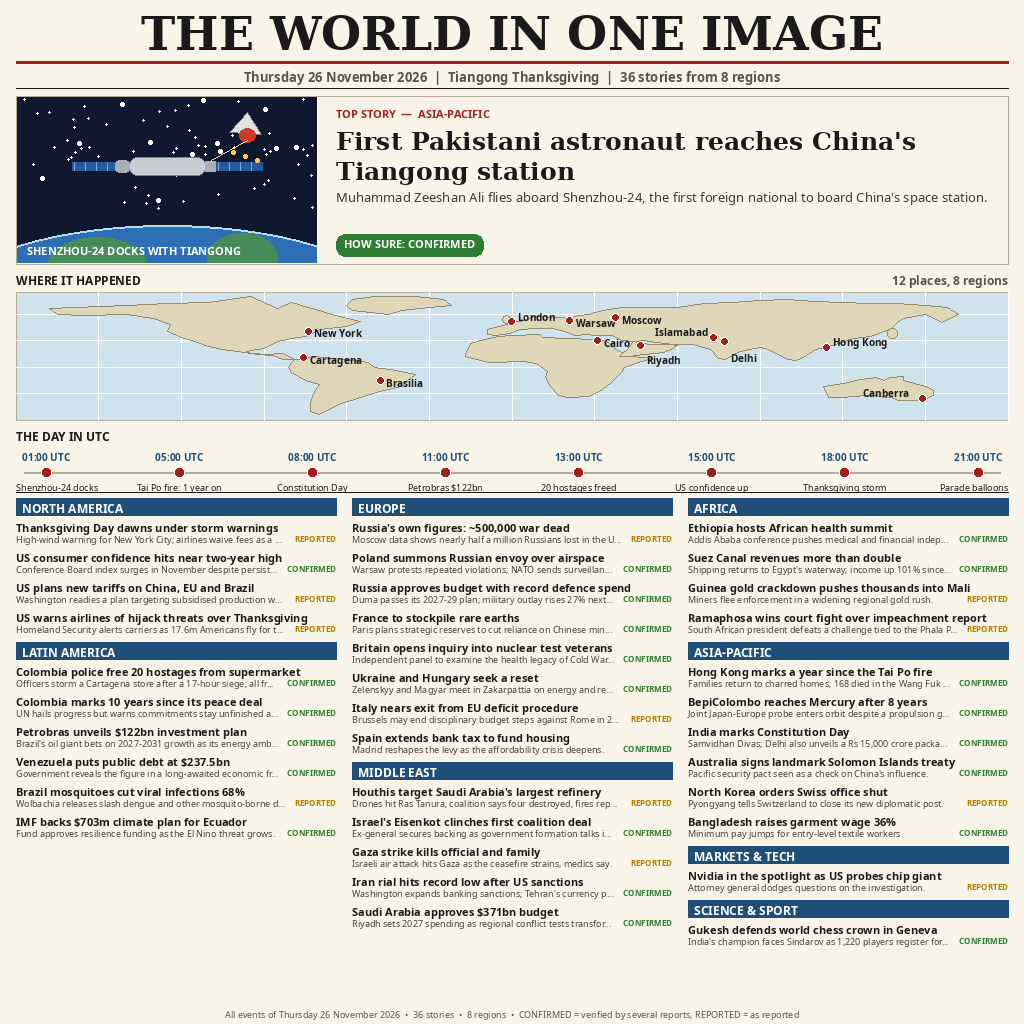
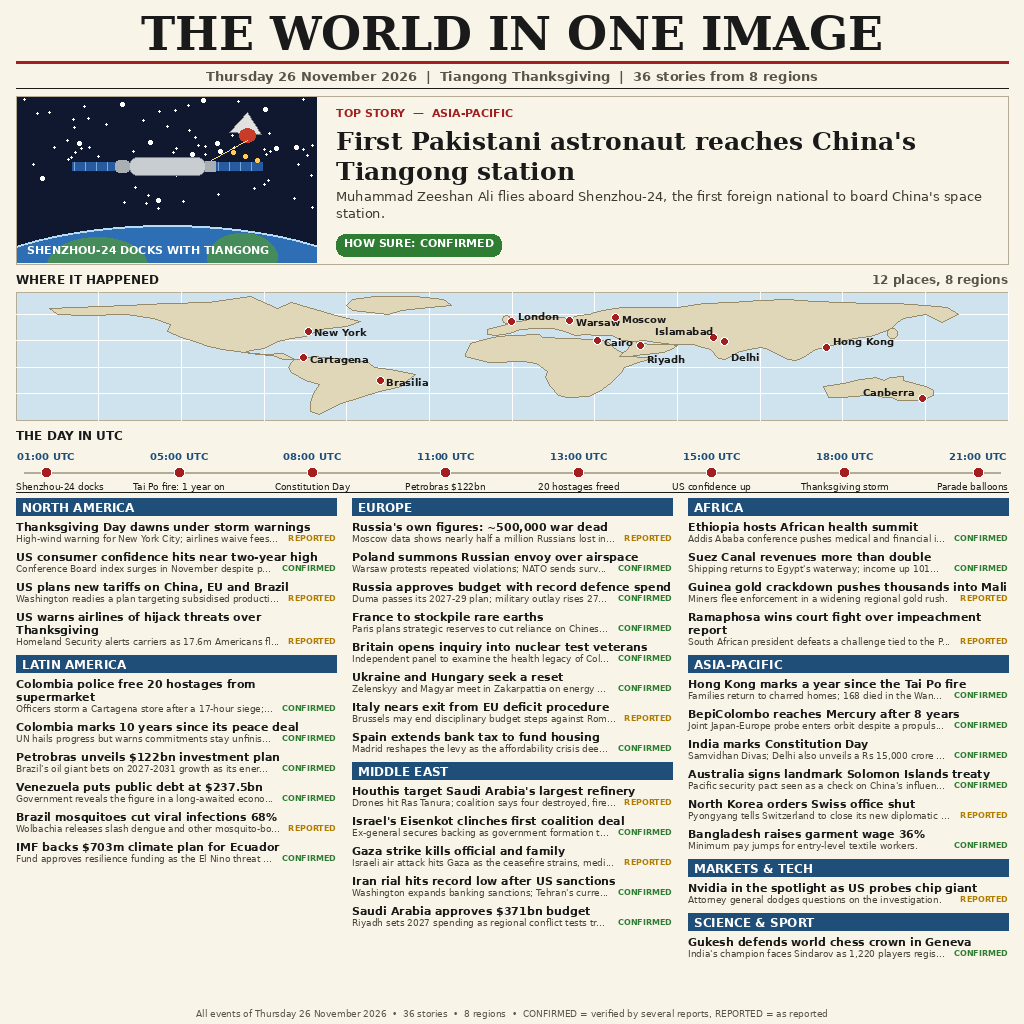
Fix font loading: DejaVu paths with load_default fallback
Noto Sans is absent from the minimal grader sandbox, so truetype()
crashed and run_completes failed. Switch SANS/SANS_B to DejaVu and
fall back to ImageFont.load_default() when a font file is missing.

diff --git a/build_image.py b/build_image.py
@@ -28,12 +28,19 @@ RULE = (180, 172, 150)
 
 SERIF = "/usr/share/fonts/truetype/dejavu/DejaVuSerif-Bold.ttf"
 SERIF_R = "/usr/share/fonts/truetype/dejavu/DejaVuSerif.ttf"
-SANS = "/usr/share/fonts/truetype/noto/NotoSans-Regular.ttf"
-SANS_B = "/usr/share/fonts/truetype/noto/NotoSans-Bold.ttf"
+SANS = "/usr/share/fonts/truetype/dejavu/DejaVuSans.ttf"
+SANS_B = "/usr/share/fonts/truetype/dejavu/DejaVuSans-Bold.ttf"
 
 
 def font(path, size):
-    return ImageFont.truetype(path, size)
+    """Load a TTF font; fall back to Pillow's default bitmap font if the
+    file is missing (e.g. in the minimal grader sandbox)."""
+    try:
+        if os.path.exists(path):
+            return ImageFont.truetype(path, size)
+    except OSError:
+        pass
+    return ImageFont.load_default()
 
 
 def wrap(draw, text, fnt, max_w):
